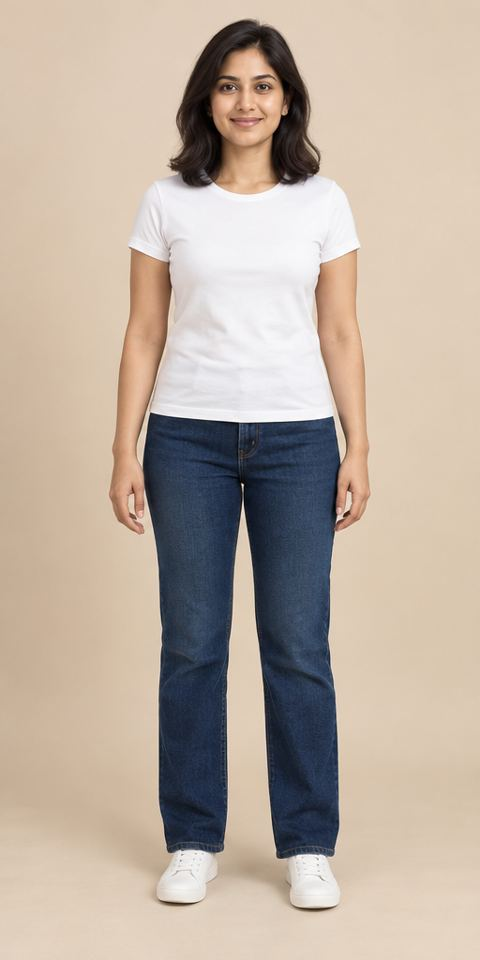
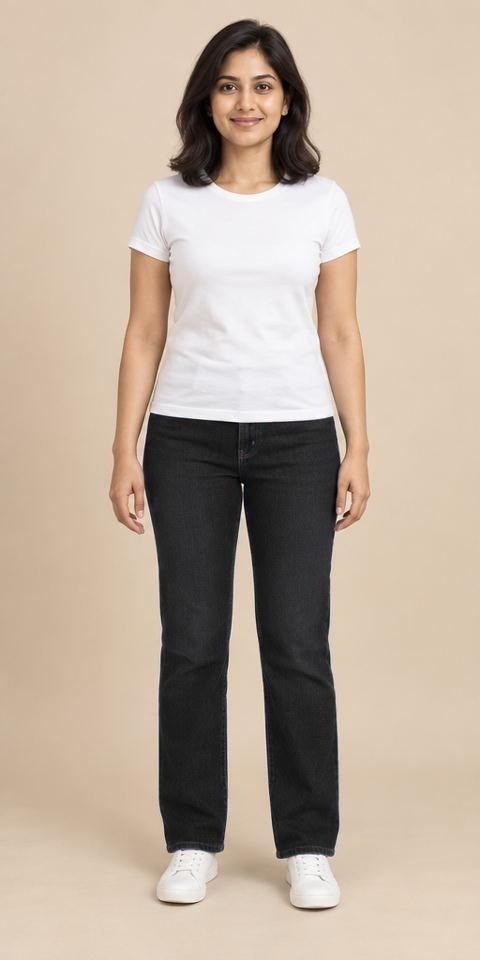
Landing: before photo wears different jeans, full-body step photos, plan points in one order
- Hero before/after: the "before" jeans are now black, so the slider shows a
  new top and a new bottom instead of only the top changing.
- How it works: "Add one photo" and "See it, then buy" show the whole person,
  head to shoes, as the copy promises.
- Removed the "inspiration edit" section and its styles.
- Pricing: every plan lists the same eight points in the same order (looks,
  quality, poses, 360° view, wardrobe, stylist ideas, history, priority);
  what a plan lacks stays in its place, struck through.

Claude-Session: https://claude.ai/code/session_019yUPwFTfEbcmQ3BtwoQBP1

Changed region(s): [[0.3125, 0.4375, 0.7188, 0.9062]]

diff --git a/app/static/app.js b/app/static/app.js
@@ -253,13 +253,13 @@ function bindCompare(el){
 /* ---------- Plans (prices include 18% GST) ---------- */
 const PLANS = [
   {key:'free', name:'Free', for:'Try MyDripCheck on your next outfit.', monthly:0, yearly:0, looks:2, quality:'Standard', imports:15, stylist:1, wardrobe:25, cta:'Start free',
-   perks:['2 looks a month, any mix of stores','Standard quality','Wardrobe up to 25 items','1 AI stylist idea'], missing:['HD looks','Full Looks history','Social-ready poses','360° view']},
-  {key:'pass', name:'Occasion Pass', for:'One-time pack for a wedding, festival or trip.', once:129, listOnce:149, days:7, looks:7, quality:'HD', imports:30, stylist:5, wardrobe:25, cta:'Buy the pass',
-   perks:['7 HD looks for 7 days','No autopay, pay once with UPI','5 AI stylist ideas','Stacks on any plan'], missing:['Social-ready poses','360° view']},
+   perks:[['2 looks a month',1],['Standard quality',1],['Social-ready poses',0],['360° view',0],['Wardrobe up to 25 items',1],['1 AI stylist idea',1],['Looks history: last 5',1],['Priority generation',0]]},
+  {key:'pass', name:'Occasion Pass', for:'One-time pack for a wedding, festival or trip. Pay once, stacks on any plan.', once:129, listOnce:149, days:7, looks:7, quality:'HD', imports:30, stylist:5, wardrobe:25, cta:'Buy the pass',
+   perks:[['7 looks, valid for 7 days',1],['HD quality',1],['Social-ready poses',0],['360° view',0],['Wardrobe up to 25 items',1],['5 AI stylist ideas',1],['Looks history: last 5',1],['Priority generation',0]]},
   {key:'plus', name:'Plus', for:'For people who shop online every month.', monthly:349, listMonthly:399, yearly:3299, looks:18, quality:'HD', imports:150, stylist:20, wardrobe:200, cta:'Get Plus', popular:true,
-   perks:['18 HD looks every month','3 social-ready poses for your posts','Standard pose, head to toe','Wardrobe up to 200 items','20 AI stylist ideas','Full Looks history and HD downloads'], missing:['360° view']},
+   perks:[['18 looks a month',1],['HD quality',1],['3 social-ready poses',1],['360° view',0],['Wardrobe up to 200 items',1],['20 AI stylist ideas',1],['Full Looks history and HD downloads',1],['Priority generation',0]]},
   {key:'pro', name:'Pro', for:'For stylists, creators and big wardrobes.', monthly:799, listMonthly:999, yearly:7499, looks:40, quality:'HD', imports:300, stylist:40, wardrobe:1000, cta:'Get Pro',
-   perks:['360° view: spin your look to see the side and back','All 8 social-ready poses','40 HD looks every month','Priority generation','Wardrobe up to 1,000 items','40 AI stylist ideas'], missing:[]},
+   perks:[['40 looks a month',1],['HD quality',1],['All 8 social-ready poses',1],['360° view',1],['Wardrobe up to 1,000 items',1],['40 AI stylist ideas',1],['Full Looks history and HD downloads',1],['Priority generation',1]]},
 ];
 // Shown price, crossed-out list price and the discount between them. Yearly plans compare the
 // monthly equivalent with the monthly list price.
@@ -286,7 +286,7 @@ function pricingHtml(){
       <div><div class="amt">${pr.was ? `<s class="was num" aria-label="Was ₹${pr.was.toLocaleString('en-IN')}">₹${pr.was.toLocaleString('en-IN')}</s>` : ''}<b>₹${pr.amt.toLocaleString('en-IN')}</b><span>${pr.unit}</span></div>
         <p style="display:flex;gap:8px;flex-wrap:wrap;min-height:24px">${pr.off ? `<span class="save-badge num">${pr.off}% off</span>` : '<span class="per">No card needed</span>'}</p></div>
       <button class="btn ${p.popular ? 'brand' : p.key === 'free' ? 'glassy' : ''} wide" data-act="choose-plan" data-plan="${p.key}" ${locked || state.checkingOut ? 'disabled' : ''}>${state.checkingOut === p.key ? '<span class="spin" aria-hidden="true"></span> Opening checkout…' : cta}</button>
-      <ul>${p.perks.map(x => `<li>${esc(x)}</li>`).join('')}${p.missing.map(x => `<li class="no"><span class="sr">Not included: </span>${esc(x)}</li>`).join('')}</ul>
+      <ul>${p.perks.map(([x, ok]) => ok ? `<li>${esc(x)}</li>` : `<li class="no"><span class="sr">Not included: </span>${esc(x)}</li>`).join('')}</ul>
     </article>`;
   }).join('');
   const rows = [
@@ -340,8 +340,8 @@ function landing(){
     <div class="md-heading reveal"><div><p class="eyebrow">How it works</p><h2>From three tabs<br>to <em>one outfit.</em></h2></div><p>No more guessing how pieces from different stores will look together on you.</p></div>
     <ol class="md-steps">
       <li class="reveal"><div class="md-step-art pieces"><img src="${img('shirt')}" alt="Linen shirt from Myntra"><img src="${img('jeans')}" alt="Jeans from Amazon"><img src="${img('sneakers')}" alt="Sneakers from AJIO"></div><span class="num">01</span><h3>Paste your finds</h3><p>Drop product links or upload images. We pull the real price, sizes and photos.</p></li>
-      <li class="reveal"><div class="md-step-art"><img src="${img('before')}" alt="A clear full-body photo"><span class="tag-on">Your photo</span></div><span class="num">02</span><h3>Add one photo</h3><p>Any clear full-body shot. We keep your face, hair and skin tone exactly as they are.</p></li>
-      <li class="reveal"><div class="md-step-art"><img src="${img('after')}" alt="The full look on you"><span class="tag-on">Myntra · Amazon · AJIO</span></div><span class="num">03</span><h3>See it, then buy</h3><p>Preview the full look of your outfit, then jump to each store to buy.</p></li>
+      <li class="reveal"><div class="md-step-art full"><img src="${img('before')}" alt="A clear full-body photo"><span class="tag-on">Your photo</span></div><span class="num">02</span><h3>Add one photo</h3><p>Any clear full-body shot. We keep your face, hair and skin tone exactly as they are.</p></li>
+      <li class="reveal"><div class="md-step-art full"><img src="${img('after')}" alt="The full look on you"><span class="tag-on">Myntra · Amazon · AJIO</span></div><span class="num">03</span><h3>See it, then buy</h3><p>Preview the full look of your outfit, then jump to each store to buy.</p></li>
     </ol>
   </section>
   <section class="lp-section" aria-labelledby="demoTitle">
@@ -359,14 +359,6 @@ function landing(){
       <li class="reveal"><span class="n">02</span><div><h3>Built to keep you, you</h3><p>Face, hair, glasses and skin tone stay true to your photo. No generic models.</p></div></li>
       <li class="reveal"><span class="n">03</span><div><h3>Your wardrobe, online</h3><p>Save looks, mix new finds with clothes you own, and build a collection that travels with you across stores.</p></div></li>
     </ol>
-  </section>
-  <section class="lp-section">
-    <div class="md-heading reveal"><div><p class="eyebrow">The inspiration edit</p><h2>A mood for every day.<br><em>A look for every you.</em></h2></div><p>Start with a little inspiration. Make every piece feel like your own.</p></div>
-    <div class="md-edit">
-      <article class="reveal"><p class="eyebrow">01 / Effortlessly everyday</p><div class="photo"><img src="${img('after')}" alt="Sage linen shirt with straight jeans and white sneakers"><button class="btn small light" data-act="demo">Try this look ${icon('arrow','s')}</button></div><h3>Everyday ease</h3><p>A soft linen shirt, straight jeans, clean sneakers.</p></article>
-      <article class="reveal"><p class="eyebrow">02 / Simple and sharp</p><div class="photo"><img src="${img('before')}" alt="White tee with straight jeans and white sneakers"><button class="btn small light" data-act="go" data-view="home">Start yours ${icon('arrow','s')}</button></div><h3>The white tee edit</h3><p>A crisp tee and good denim. Never out of style.</p></article>
-      <article class="reveal"><p class="eyebrow">03 / Mix your own</p><div class="photo collage"><img src="${img('shirt')}" alt="Linen shirt"><img src="${img('jeans')}" alt="Jeans"><img src="${img('sneakers')}" alt="Sneakers"><button class="btn small light" data-act="go" data-view="home">Paste a link ${icon('arrow','s')}</button></div><h3>Three stores, one outfit</h3><p>Pick each piece wherever it is cheapest.</p></article>
-    </div>
   </section>
   <section class="md-dark reveal">
     <p class="eyebrow">Style has no single definition</p>

diff --git a/app/static/index.html b/app/static/index.html
@@ -738,12 +738,15 @@ textarea.input{font-family:inherit;resize:vertical}
 .md-steps li{background:var(--surface);border:1px solid var(--line);border-radius:8px;padding:12px 12px 22px;display:grid;gap:6px}
 .md-step-art{position:relative;height:210px;border-radius:8px;overflow:hidden;background:var(--photo);margin-bottom:10px}
 .md-step-art img{width:100%;height:100%;object-fit:cover;object-position:top}
+/* Full-body photos: show the whole person, head to shoes, on the photo's own backdrop. */
+.md-step-art.full{height:300px;background:#DBC9B4}
+.md-step-art.full img{object-fit:contain;object-position:center bottom}
 .md-step-art.pieces{display:grid;grid-template-columns:repeat(3,1fr);gap:4px;background:var(--surface-2)}
 .md-step-art .tag-on{position:absolute;left:10px;bottom:10px;padding:5px 10px;border-radius:8px;background:var(--glass-strong);font-size:11px;font-weight:700}
 .md-steps .num{font:400 26px/1 var(--display);color:var(--accent-text);padding:0 10px}
 .md-steps h3,.md-steps p{padding:0 10px}
 .md-steps h3{font:700 19px/1.2 var(--body)}
-.md-steps p,.md-features p,.md-edit p{color:var(--muted);font-size:15px}
+.md-steps p,.md-features p{color:var(--muted);font-size:15px}
 .md-features{display:grid;gap:16px}
 .md-features article{border:1px solid var(--line);background:var(--surface);border-radius:8px;padding:26px;display:grid;gap:10px;align-content:start}
 
@@ -753,15 +756,7 @@ textarea.input{font-family:inherit;resize:vertical}
 .md-features h3{font:700 19px/1.2 var(--body)}
 .md-features .thumbs{display:flex;gap:8px;margin-top:8px}
 .md-features .thumbs img{width:56px;height:70px;object-fit:cover;border-radius:6px;border:2px solid rgba(255,255,255,.7)}
-.md-edit{display:grid;gap:22px}
-.md-edit article{display:grid;gap:8px}
-.md-edit .photo{position:relative;height:380px;border-radius:8px;overflow:hidden;background:var(--photo)}
-.md-edit .photo img{width:100%;height:100%;object-fit:cover;object-position:top;transition:transform .55s var(--ease)}
 
-.md-edit .photo.collage{display:grid;grid-template-columns:1fr 1fr;grid-template-rows:1fr 1fr;gap:4px}
-.md-edit .photo.collage img:first-child{grid-row:span 2}
-.md-edit .photo .btn{position:absolute;right:12px;bottom:12px}
-.md-edit h3{font:400 24px/1.15 var(--display)}
 .btn.light{background:var(--paper);color:var(--ink);box-shadow:var(--shadow-s)}
 .md-dark{margin-top:80px;background:#1F1C1A;color:#F6F1E8;text-align:center;padding:64px 20px!important;display:grid;justify-items:center;gap:16px}
 .md-dark .eyebrow{color:#C4B8A8}
@@ -788,10 +783,8 @@ textarea.input{font-family:inherit;resize:vertical}
 .md-foot-bottom{display:flex;flex-wrap:wrap;justify-content:space-between;gap:8px;padding:18px 0 8px;font-size:12px;color:var(--muted)}
 @media (min-width:760px){
   .md-steps{grid-template-columns:repeat(3,1fr)}
+  .md-step-art{height:300px}
   .md-features{grid-template-columns:1.4fr 1fr 1fr}
-  .md-edit{grid-template-columns:repeat(3,1fr);align-items:start}
-  .md-edit article:nth-child(2){margin-top:56px}
-  .md-edit article:nth-child(3){margin-top:26px}
   .md-loop{grid-template-columns:1fr 1fr}
   .md-foot-panel{grid-template-columns:1fr auto;padding:40px}
   .md .pricing{padding:40px 28px}
